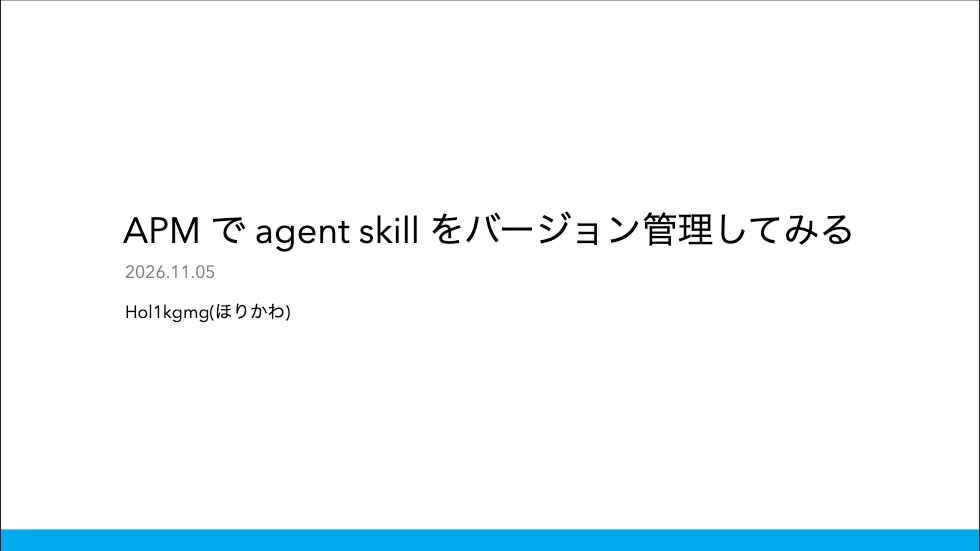
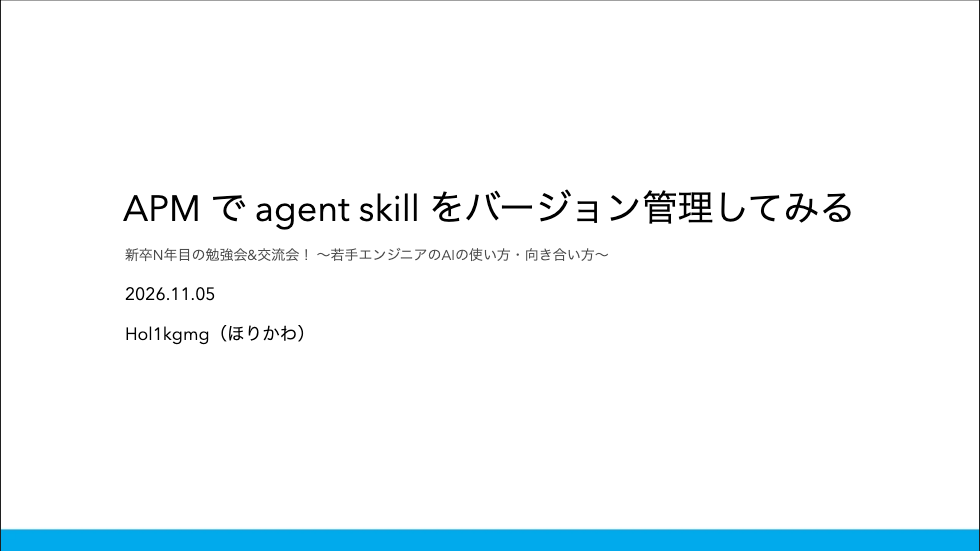
feat: 2026-11-05 の1枚目にイベント名を記載する

Changed region(s): [[0.1224, 0.3394, 0.8878, 0.6171]]

diff --git a/2026-11-05/src/slides.md b/2026-11-05/src/slides.md
@@ -17,6 +17,8 @@ seoMeta:
 
 # APM で agent skill をバージョン管理してみる
 
+<div class="text-sm opacity-70">新卒N年目の勉強会&交流会！ 〜若手エンジニアのAIの使い方・向き合い方〜</div>
+
 2026.11.05
 
 Hol1kgmg（ほりかわ）
